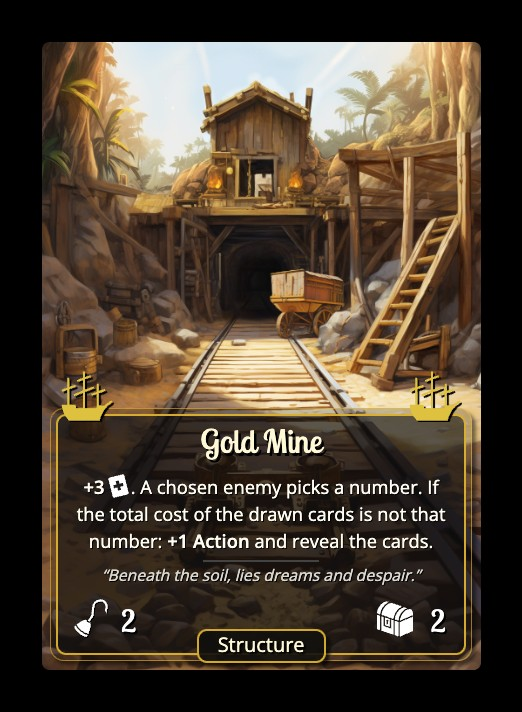
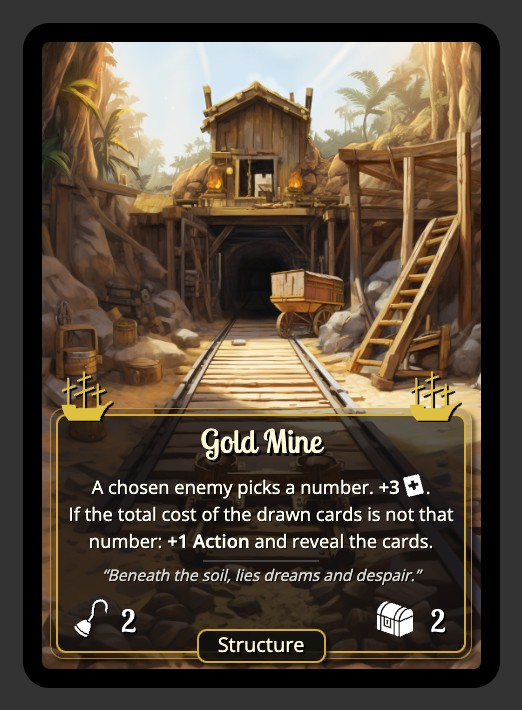
Roll back changes

diff --git a/deckhand/cards.en.js b/deckhand/cards.en.js
@@ -386,7 +386,7 @@ are reminders of triggered effects.<br>
 
 {
     'title': 'Gold Mine',
-    'text': `+3 :Card:. A chosen enemy picks a number. If the total cost of the drawn cards is not that number: 
+    'text': `A chosen enemy picks a number. +3 :Card:.<br> If the total cost of the drawn cards is not that number: 
     +1 :Action: and reveal the cards.`,
     'flavor': 'Beneath the soil, lies dreams and despair.',
     'img': 'structures/gold-mine.png',

diff --git a/deckhand/how-to-play.html b/deckhand/how-to-play.html
@@ -625,11 +625,6 @@
                 </p>
 
                 <p>The draws are sequential and optional so you might draw 1 and decide to continue up to 3.</p>
-
-                <p><i>
-                    In the 1st printed edition the draw was put after the number guess. The order has now been fixed and
-                    the draws must be done before the guess.
-                </i></p>
             </div>
         </div>
 
